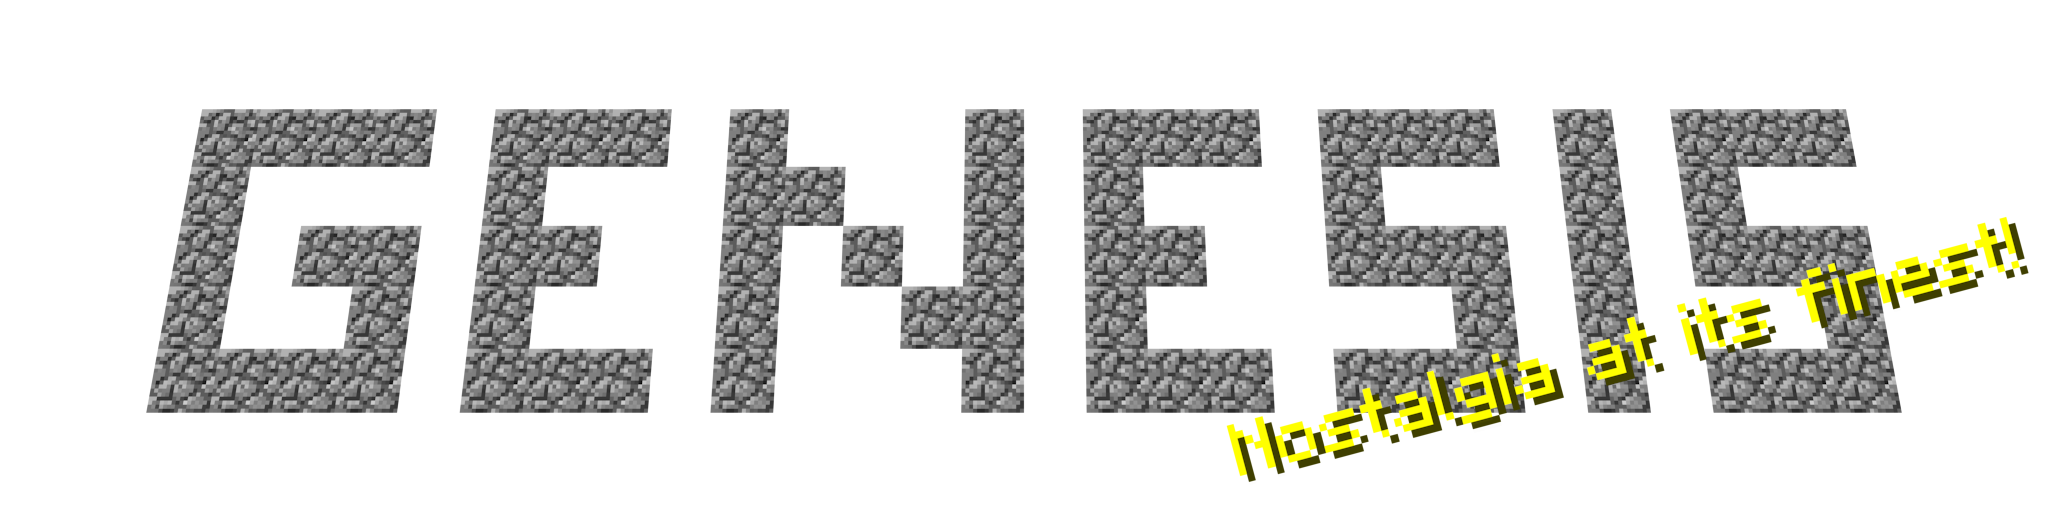
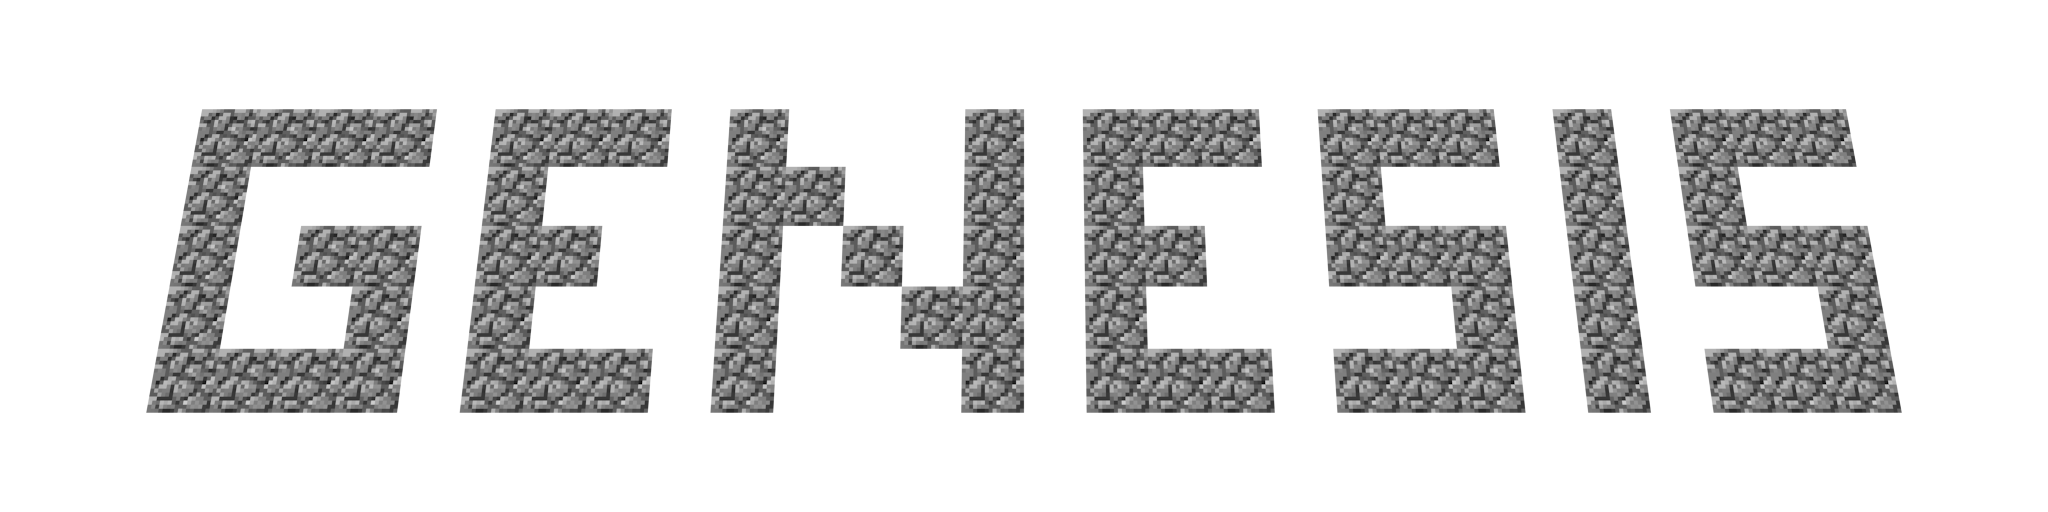
moving splash text

Changed region(s): [[0.5938, 0.4375, 1.0, 0.9375]]

diff --git a/index.html b/index.html
@@ -15,6 +15,24 @@
 <style>
     @font-face { font-family: Minecraft; src: url('minecraft.ttf'); }
 
+    @keyframes splash {
+        0%{
+            width: 25vw;
+            left: 53vw;
+            top: 7.25vw;
+        }
+        25%{
+            width: 26vw;
+            left: 52.75vw;
+            top: 7vw;
+        }
+        100%{
+            width: 25vw;
+            left: 53vw;
+            top: 7.25vw;
+        }
+    }
+
     body {
         text-align: center;
         background-color: black;
@@ -78,6 +96,16 @@
 
 <h2>
     <img src="minecraft_title.png" style="width: 50vw;">
+
+    <img src="splash.png" style="height:auto;
+    animation-name: splash;
+    animation-duration: 0.5s;
+    animation-iteration-count: infinite;
+    position: absolute;
+    position-anchor:title;
+    left: 53vw;
+    top: 7.25vw;">
+
     <br></br>
     Available on <a href="https://modrinth.com/shader/genesis-shader">Modrinth</a> 
     and <a href="https://github.com/Reckobot/Genesis">GitHub</a>
